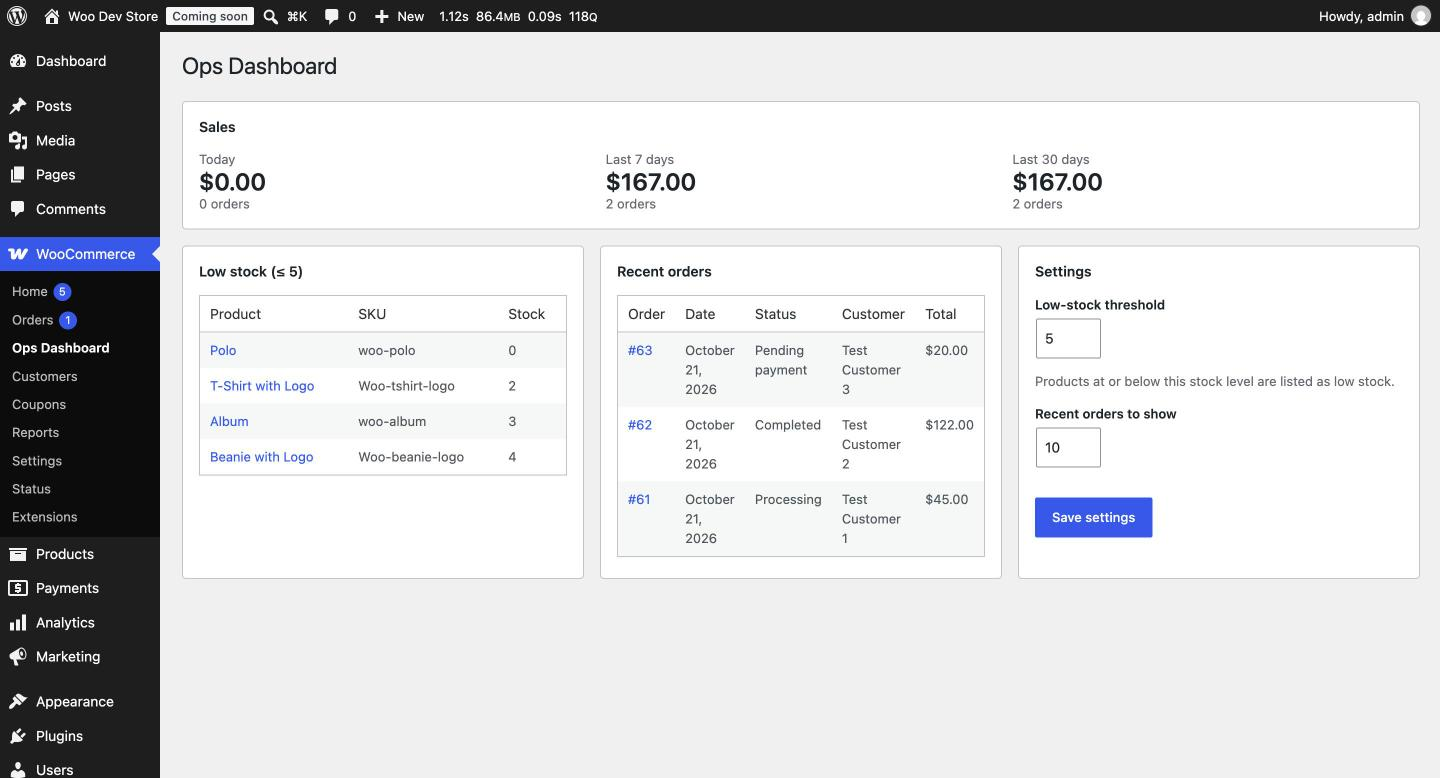
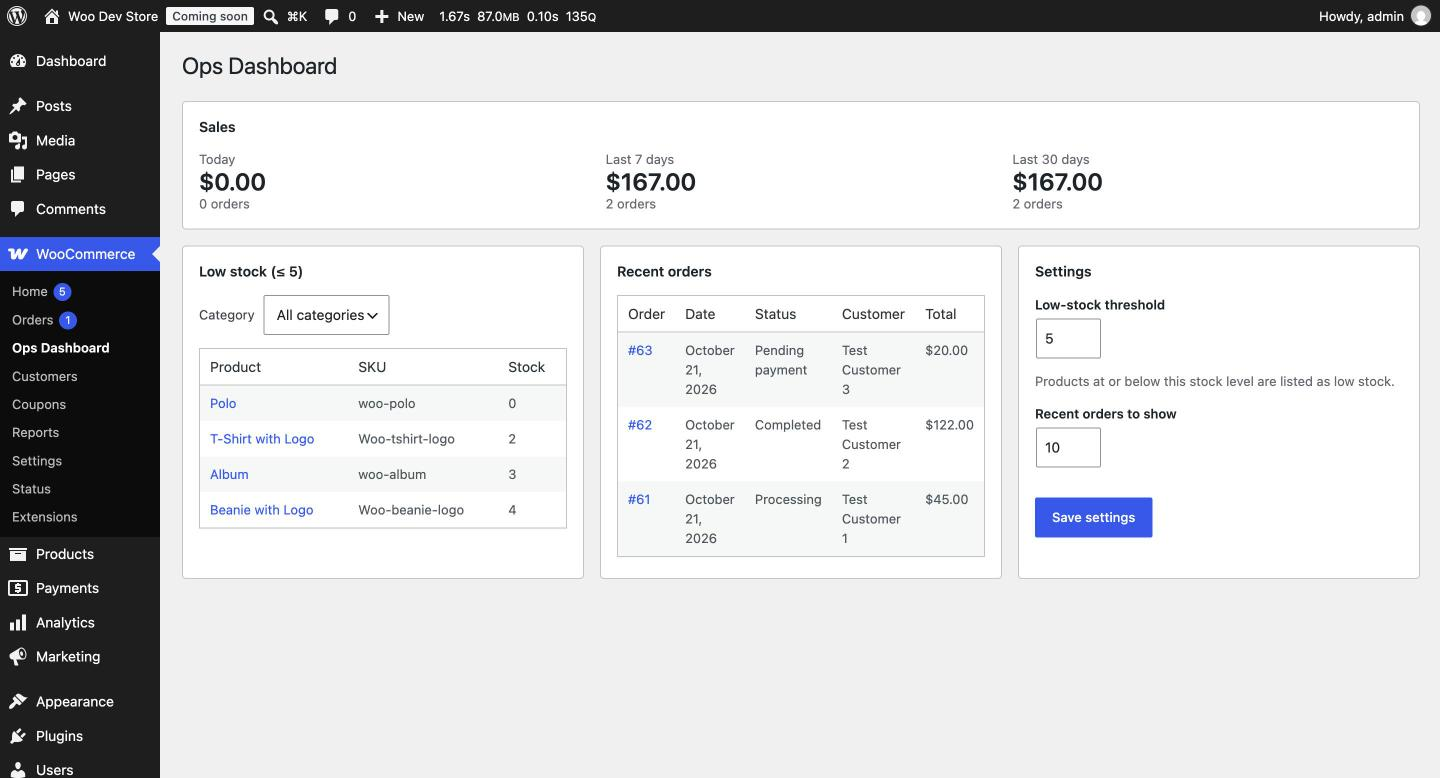
Update ReadMe

diff --git a/README.md b/README.md
@@ -15,8 +15,8 @@ One admin screen for store managers: low-stock products, recent orders, and sale
 - [x] Recent orders panel (status, total, customer)
 - [x] Sales summary: today, last 7 days, last 30 days
 - [x] Settings: low-stock threshold, number of recent orders
-- [ ] AJAX filtering by category / stock status
-- [ ] *Stretch:* daily low-stock email (WP-Cron), CSV export, REST endpoint
+- [x] AJAX filtering of the low-stock panel by category
+- [ ] *Stretch:* stock-status filter, daily low-stock email (WP-Cron), CSV export, REST endpoint
 
 ## Built with
 
